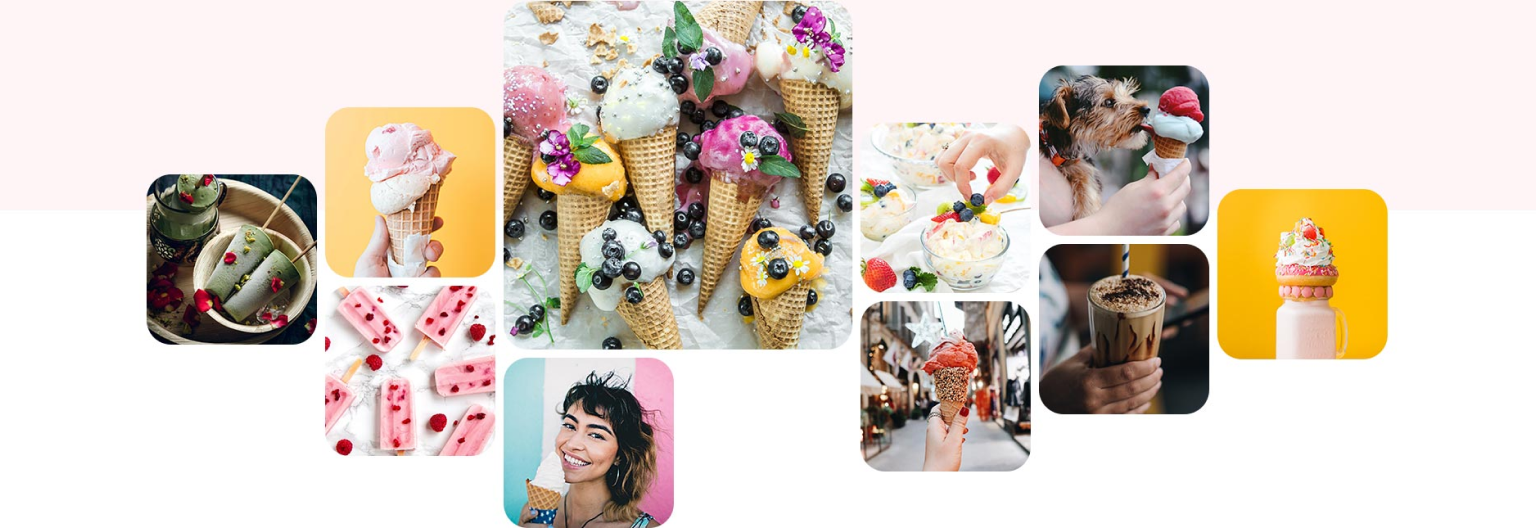
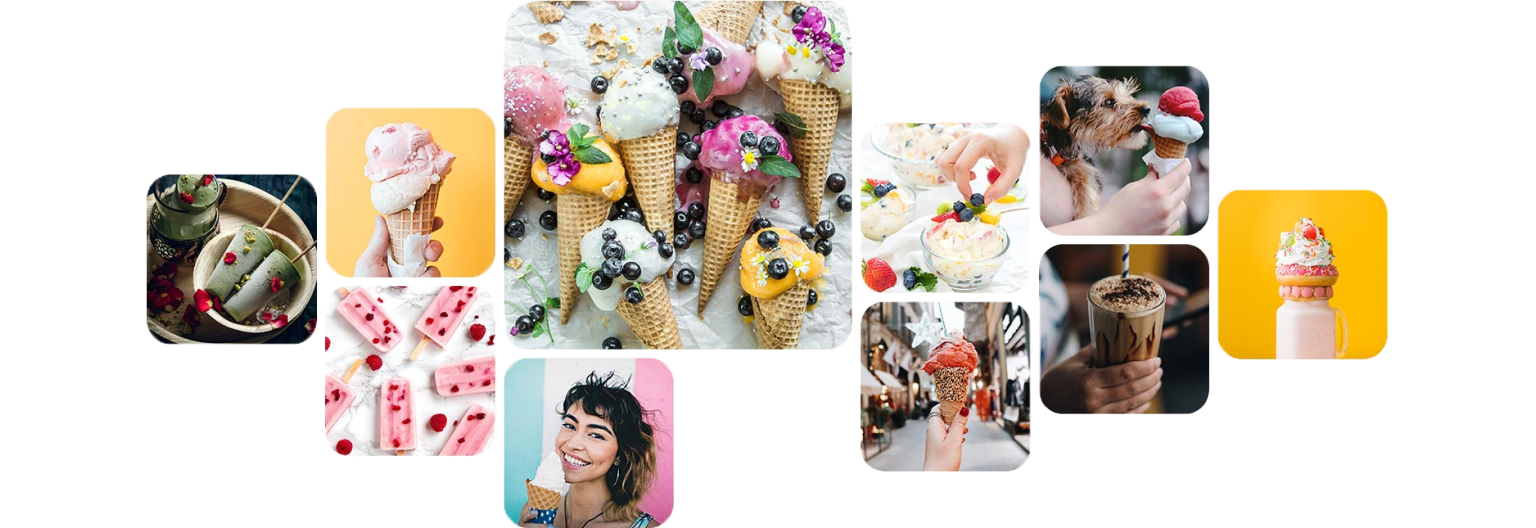
cut photo

diff --git a/src/sass/layout/_gallery.scss b/src/sass/layout/_gallery.scss
@@ -1,6 +1,6 @@
 .gallery {
   width: 100%;
-  background-image: linear-gradient(to bottom, $background-color-1 40%, #ffffff 40%, #ffffff 60%);
+  background-image: linear-gradient(to bottom, #fff5f6 40%, $white-color 40%, $white-color 60%);
   &-img {
     width: 100%;
   }

diff --git a/src/sass/utils/_vars.scss b/src/sass/utils/_vars.scss
@@ -5,7 +5,7 @@ $white-color: #fff;
 $text-color: #000;
 $second-text-color: #907e82;
 
-$background-color-1: #ffb8ca;
+$background-color-1: #fff5f6;
 $background-color-2: #f0d1a5;
 $background-color-3: #c2e297;
 $grey-background-color: #fafafa;
